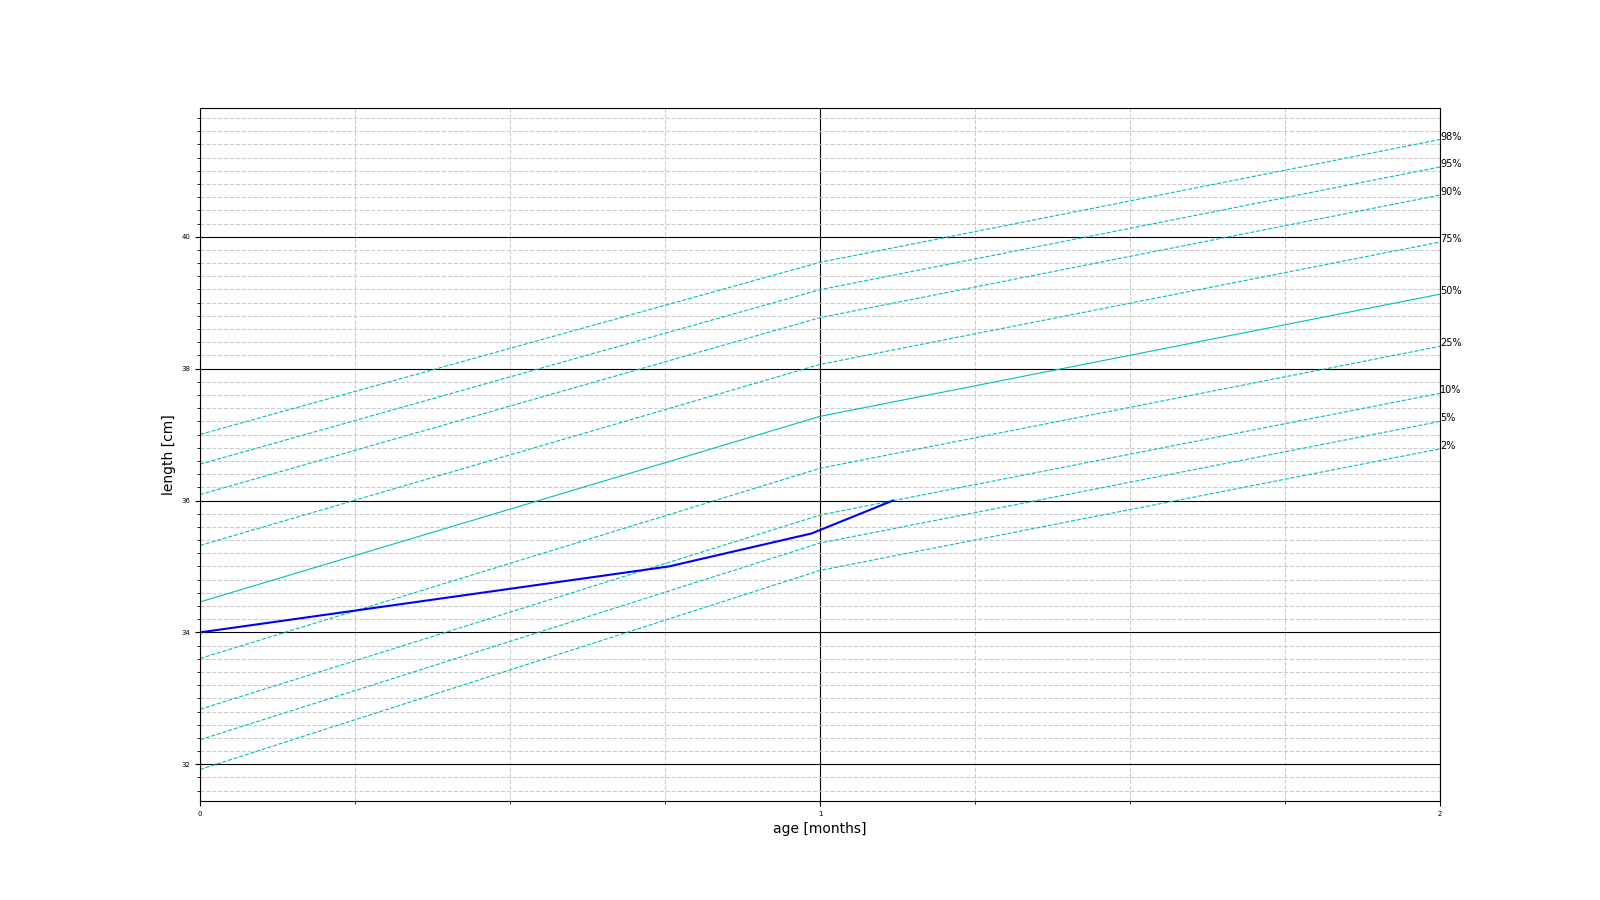
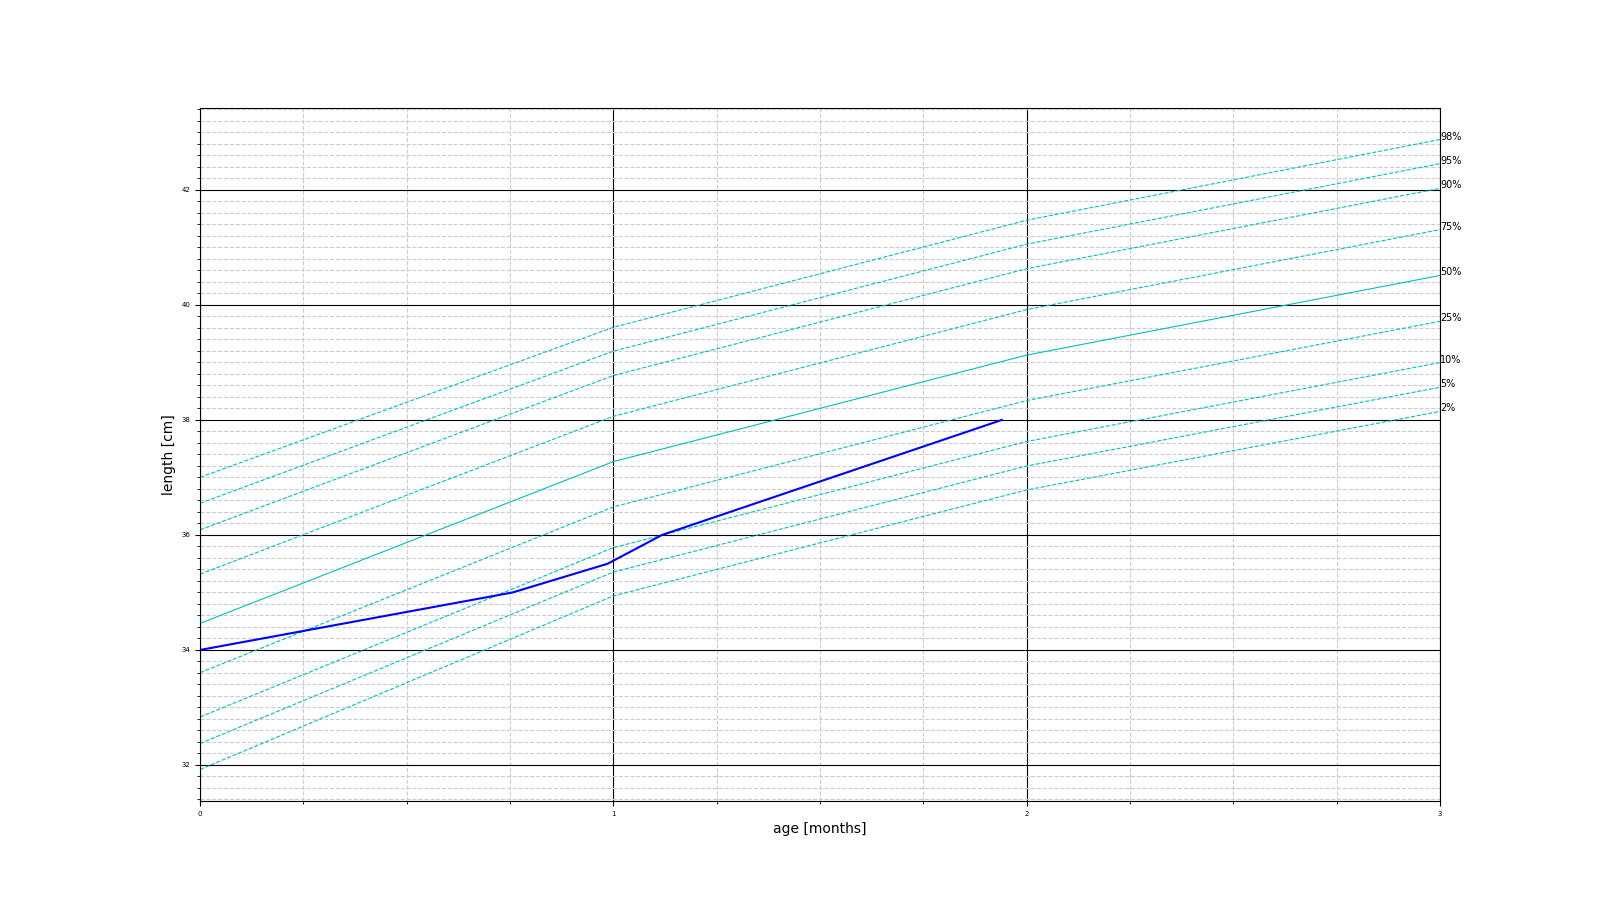
Added lenght/weight chart

diff --git a/plot_growth_graphs.py b/plot_growth_graphs.py
@@ -32,7 +32,7 @@ def sort_based_on_first_col(array):
 
 def plot_growth(world_health_array, measurements, num_of_displayed_months, y_label, x_label, output_file=None):
     # Plots
-    plt.figure()
+    # plt.figure()
     # fig, ((ax1, ax2), (ax3, ax4)) = plt.subplots(2, 2)
     fig, ax = plt.subplots()
     percentiles = ['2%', '5%', '10%', '25%', '50%', '75%', '90%', '95%', '98%']
@@ -40,8 +40,12 @@ def plot_growth(world_health_array, measurements, num_of_displayed_months, y_lab
     # Age vs weight
     for i in range(1, 10):
         linetype = 'c-' if i == 5 else 'c--'
-        x = world_health_array[:num_of_displayed_months + 1, 0]
-        y = world_health_array[:num_of_displayed_months + 1, i]
+        if num_of_displayed_months is None:
+            x = world_health_array[:, 0]
+            y = world_health_array[:, i]
+        else:
+            x = world_health_array[:num_of_displayed_months + 1, 0]
+            y = world_health_array[:num_of_displayed_months + 1, i]
         ax.plot(x, y, linetype, linewidth=0.8)
 
     ax.plot(measurements[:, 0], measurements[:, 1], 'b-')
@@ -49,8 +53,9 @@ def plot_growth(world_health_array, measurements, num_of_displayed_months, y_lab
 
     ax.set_xlabel(x_label)
     ax.set_ylabel(y_label)
-    ax.set_xlim([0, num_of_displayed_months])
-    ax.set_xticks(np.arange(0, num_of_displayed_months + 1))
+    if num_of_displayed_months is not None:
+        ax.set_xlim([0, num_of_displayed_months])
+        ax.set_xticks(np.arange(0, num_of_displayed_months + 1))
     ax.xaxis.set_minor_locator(AutoMinorLocator(4))
     ax.yaxis.set_minor_locator(AutoMinorLocator(10))
     # We change the fontsize of minor ticks label
@@ -60,8 +65,13 @@ def plot_growth(world_health_array, measurements, num_of_displayed_months, y_lab
     ax.grid(b=True, which='minor', color='0.8', linestyle='--')
 
     for i in range(1, 10):
-        x = world_health_array[num_of_displayed_months, 0]
-        y = world_health_array[num_of_displayed_months, i]
+        if num_of_displayed_months is None:
+            x = world_health_array[-1, 0]
+            y = world_health_array[-1, i]
+        else:
+            x = world_health_array[num_of_displayed_months, 0]
+            y = world_health_array[num_of_displayed_months, i]
+
         ax.text(x, y, percentiles[i-1], fontsize=7)
     fig = plt.gcf()
     plt.show()
@@ -73,7 +83,51 @@ def plot_growth(world_health_array, measurements, num_of_displayed_months, y_lab
         fig.savefig(output_file, dpi=100)
 
 
+def get_interpolated_value(time_val, times, values):
+    """
 
+    :param time_val: query value
+    :param times: all times in which the value has been measured
+    :param values: the values corresponding to the measurements
+    :return:
+    """
+
+    num_values = len(values)
+    assert time_val >= np.min(times)
+    assert time_val <= np.max(times)
+
+
+    sorted_idxs = np.argsort(times)
+    sorted_times = times[sorted_idxs]
+    sorted_values = values[sorted_idxs]
+
+    idx = np.sum(sorted_times <= time_val) - 1
+    higher_idx = idx + 1
+
+    lower_time = sorted_times[idx]
+    lower_value = sorted_values[idx]
+
+    if higher_idx > num_values - 1:  # if at the end of the vector
+        return lower_value, idx
+    else:
+        higher_time = sorted_times[higher_idx]
+        higher_value = sorted_values[higher_idx]
+
+        a = (time_val - lower_time)/(higher_time - lower_time)
+
+        assert 0 <= a <= 1
+
+        interpolated_value = lower_value * (1 - a) + higher_value * a
+        return interpolated_value, idx
+
+def get_multiple_interpolated_outputs(time_val_vector, times, values):
+    out_vector = []
+    for time in time_val_vector:
+        out, _ = get_interpolated_value(time, times, values)
+        out_vector.append(out)
+    out_vector = np.array(out_vector)
+
+    return out_vector
 
 
 
@@ -137,6 +191,23 @@ if __name__ == "__main__":
     weight_measurements = sort_based_on_first_col(np.array(weight_measurements))
     head_circumference_measurements = sort_based_on_first_col(np.array(head_circumference_measurements))
 
+    max_time = min(height_measurements[:, 0].max(), weight_measurements[:, 0].max(), head_circumference_measurements[:, 0].max())
+
+    # get height vs weight measurements
+    t = np.linspace(0, max_time, 100)
+    height_interpol_measurements = get_multiple_interpolated_outputs(time_val_vector=t, times=height_measurements[:, 0], values=height_measurements[:, 1])
+    weight_interpol_measurements = get_multiple_interpolated_outputs(time_val_vector=t, times=weight_measurements[:, 0], values=weight_measurements[:, 1])
+
+    height_weight_interpol_measurements = np.stack([height_interpol_measurements, weight_interpol_measurements], axis=1)
+    # out3 = get_multiple_interpolated_outputs(time_val_vector=t, times=head_circumference_measurements[:, 0], values=head_circumference_measurements[:, 1])
+    # plt.figure()
+    # plt.plot(t, out1)
+    # plt.plot(t, out2)
+    # plt.plot(t, out3)
+    # plt.show()
+
+
+
     # percentiles = ['2%', '5%', '10%', '25%', '50%', '75%', '90%', '95%', '98%']
 
     # Read age vs weight WHO data
@@ -188,6 +259,21 @@ if __name__ == "__main__":
         x_label='age [months]',
         output_file=os.path.join(output_dir, 'age_head_circ_growth.png')
     )
+
+    max_height = height_weight_interpol_measurements[:, 0].max()
+    _, num_of_datapoints = get_interpolated_value(max_height, length_weight_array[:, 0], length_weight_array[:, 0])
+
+    # weight vs height
+    plot_growth(
+        world_health_array=length_weight_array,
+        measurements=height_weight_interpol_measurements,
+        num_of_displayed_months=None, #int(num_of_datapoints) + 1,
+        y_label='weight [kg]',
+        x_label='length [cm]',
+        output_file=os.path.join(output_dir, 'weight_length_growth.png')
+    )
+
+
 
     # # Length vs weight
     # plt.subplot(2,2,4)
